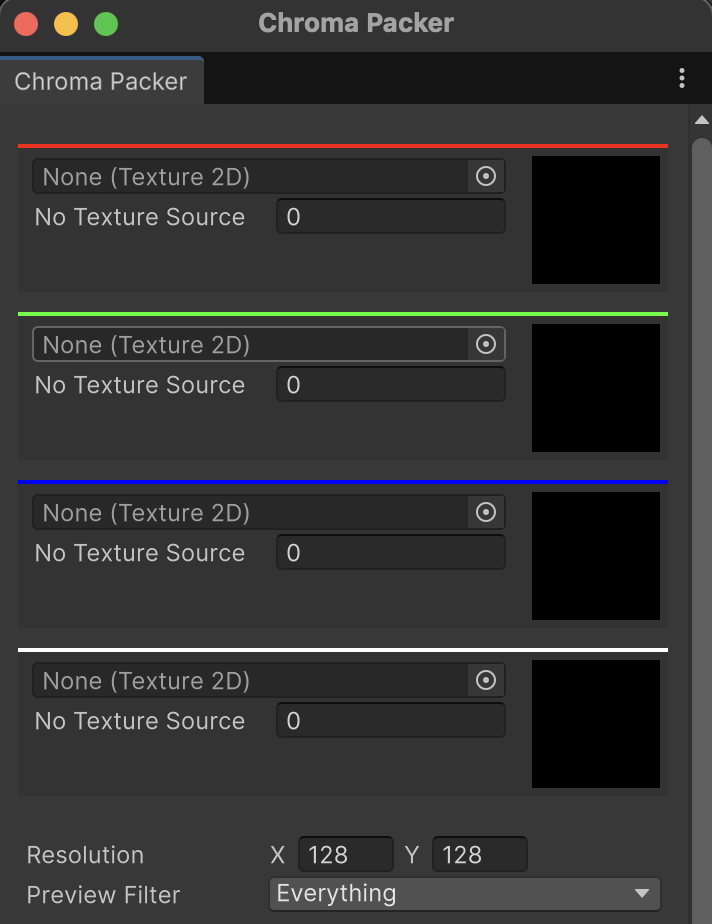
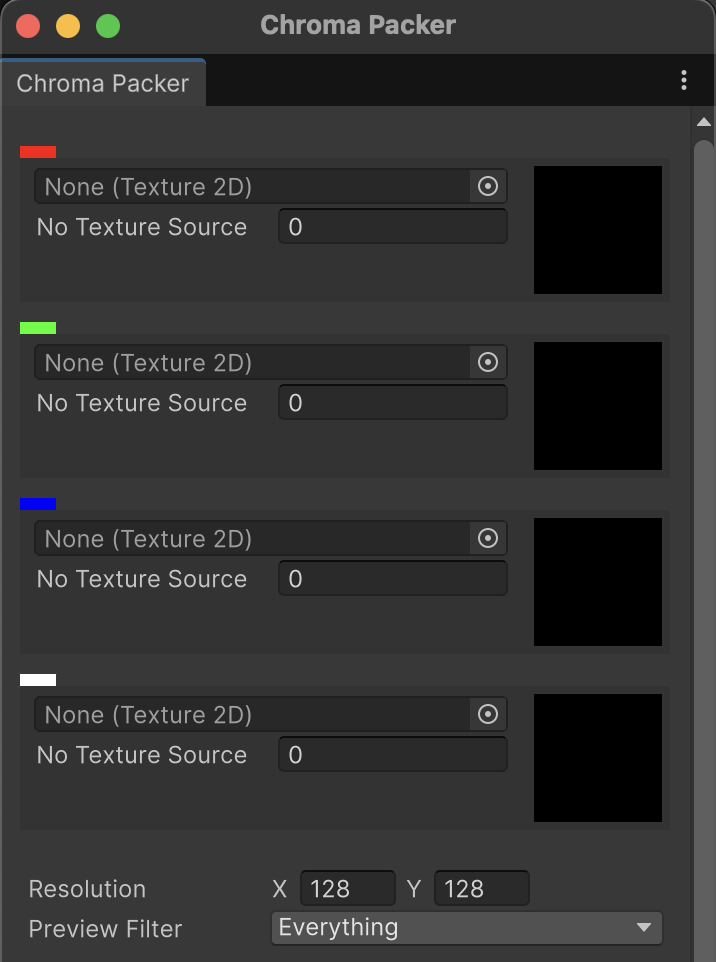
README update

diff --git a/Editor/ChromaPackerEditor.cs b/Editor/ChromaPackerEditor.cs
@@ -271,8 +271,8 @@ namespace AmeWorks.ChromaPacker.Editor
 
                 VisualElement colorStripElement = new VisualElement();
                 colorStripElement.style.marginTop = BASE_PADDING;
-                colorStripElement.style.minHeight = 2;
-                colorStripElement.style.flexGrow = 1;
+                colorStripElement.style.minHeight = 6;
+                colorStripElement.style.maxWidth = 18;
                 colorStripElement.style.backgroundColor = index switch
                 {
                     1 => Color.green,

diff --git a/README.md b/README.md
@@ -7,6 +7,7 @@ Inspired by https://github.com/camobiwon/ChannelPacker/tree/main from Camobiwon
 - Assign input textures to specific output channels (R, G, B, A)
 - Optional channel input adjustments: inversion, scaling, clipping and clamping
 - Supports repeat texture sampling mode
+- Accepts input textures in varying dimensions
 - Real-time preview of the packed texture with configurable filtering options
 - Export your packed texture in PNG format
 
